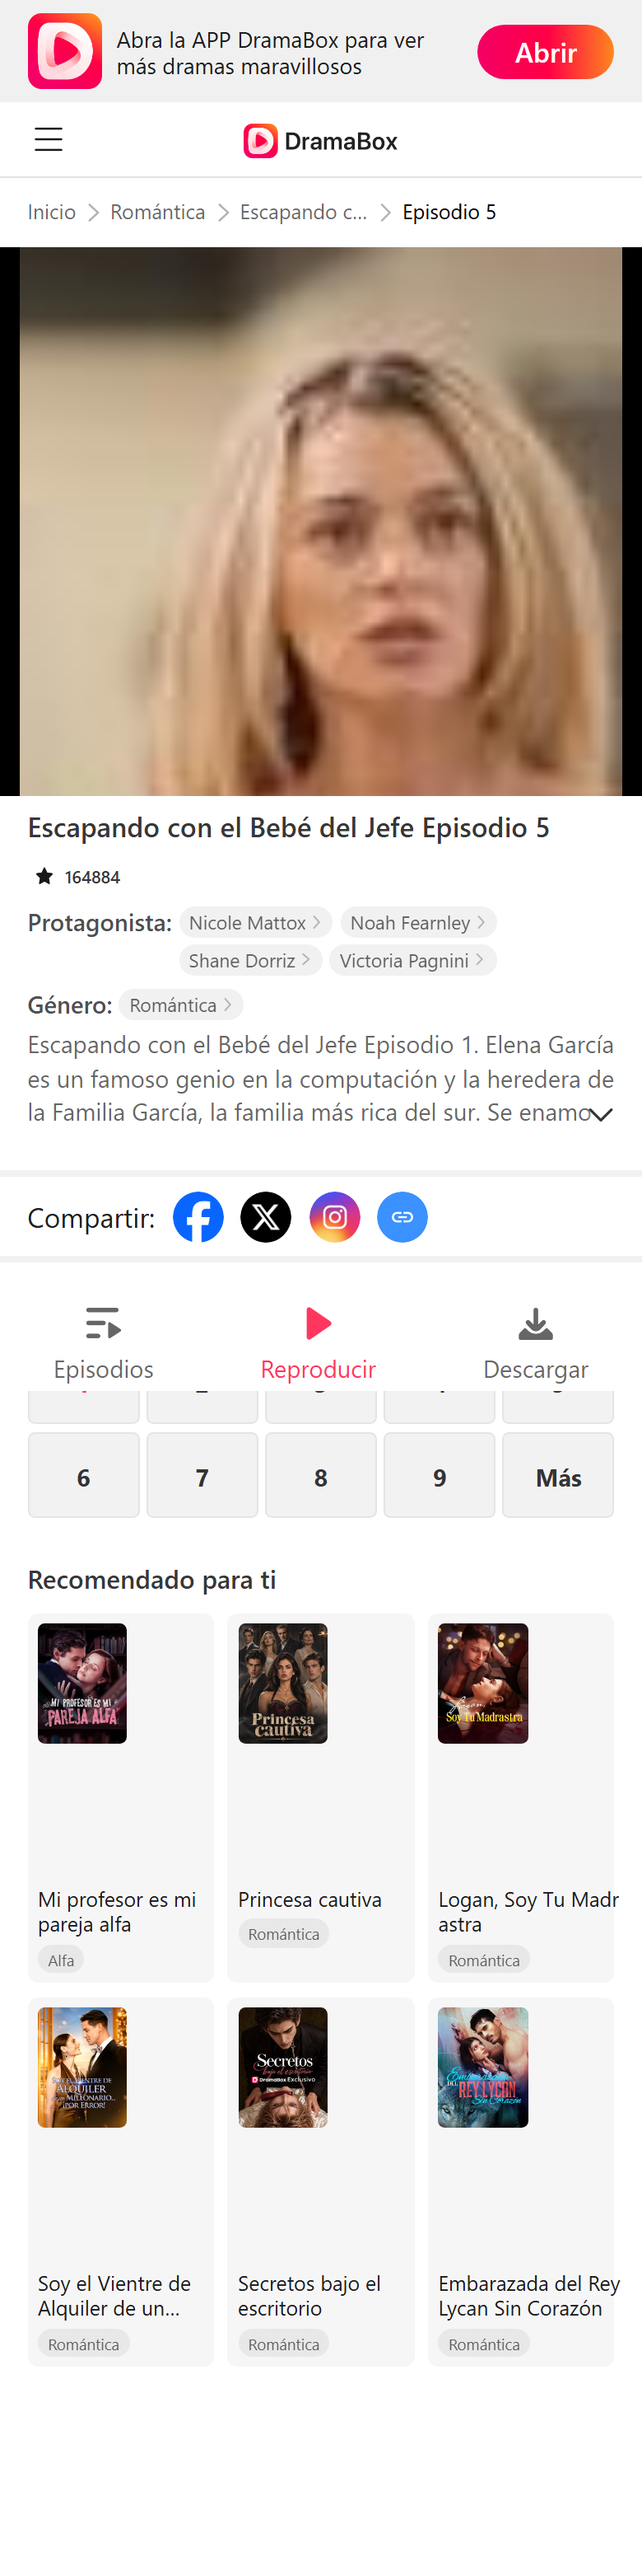
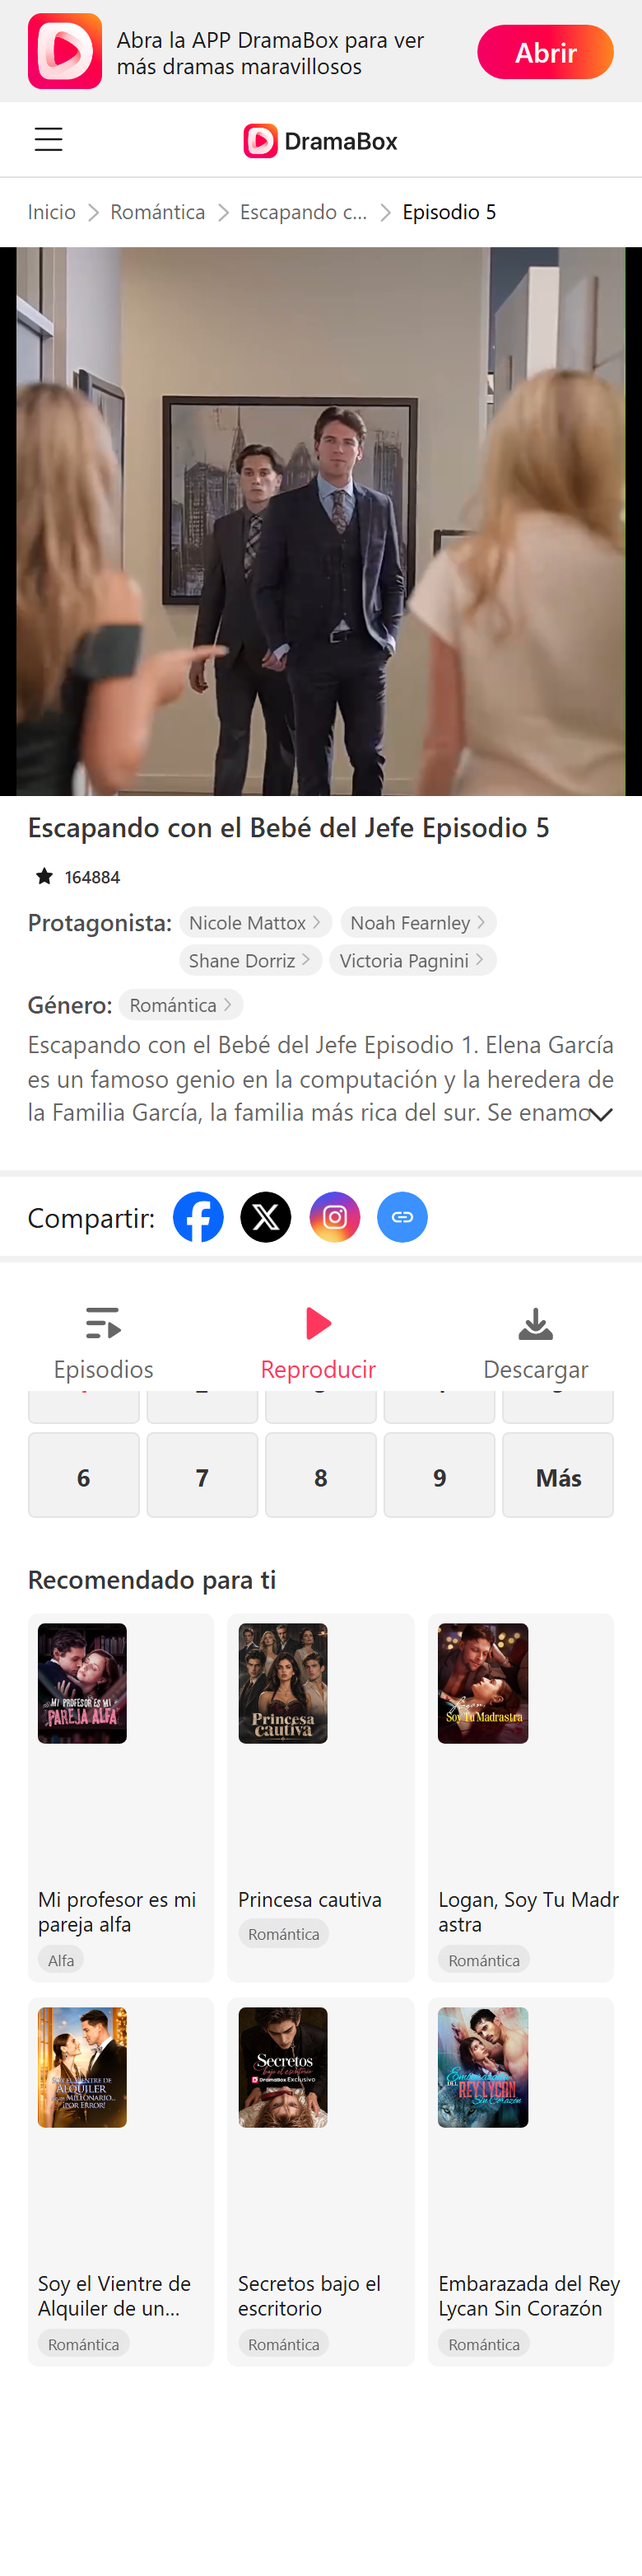
feat(video): same-origin /video endpoint with 24h signature re-sign + autoplay fallback

Changed region(s): [[0.0, 0.0931, 0.9846, 0.3103]]

diff --git a/functions/video/[[path]].js b/functions/video/[[path]].js
@@ -1,0 +1,143 @@
+/**
+ * Cloudflare Pages Function — /video/<bookId>/<chapterId>.mp4
+ *
+ * 原站剧集视频是 CloudFront 签名直链，签名只有 24 小时有效期。
+ * 这个端点负责：
+ *   1. 从同源 /data/books/<bookId>.json 取该集地址；
+ *   2. 检查 Expires 是否临近过期（默认 < 6 小时就重签）；
+ *   3. 过期则回源抓 https://www.dramabox.com/es/drama/<id>/<slug>，正则取出新的签名地址；
+ *   4. 302 到可播放的直链（浏览器 <video> 自动跟随）。
+ * 重签结果进 Cache API（6 小时），避免每次播放都回源。
+ */
+
+const ORIGIN = 'https://www.dramabox.com';
+const UA =
+  'Mozilla/5.0 (Linux; Android 13; SM-S918B) AppleWebKit/537.36 ' +
+  '(KHTML, like Gecko) Chrome/131.0.0.0 Mobile Safari/537.36';
+const FRESH_MARGIN_MS = 6 * 3600 * 1000; // 距过期不足 6 小时就重签
+const CACHE_TTL = 6 * 3600;
+
+function json(data, status = 200, extra = {}) {
+  return new Response(JSON.stringify(data), {
+    status,
+    headers: { 'Content-Type': 'application/json; charset=utf-8', ...extra },
+  });
+}
+
+function text(msg, status) {
+  return new Response(msg, {
+    status,
+    headers: { 'Content-Type': 'text/plain; charset=utf-8', 'Cache-Control': 'no-store' },
+  });
+}
+
+function expiresAt(url) {
+  const m = url && url.match(/Expires=(\d+)/);
+  return m ? Number(m[1]) * 1000 : 0;
+}
+
+/** 从原站剧集页 HTML 里抠出某一集的签名 mp4 */
+async function resign(bookId, slug, chapterId) {
+  const url = `${ORIGIN}/es/drama/${bookId}/${encodeURIComponent(slug || 'drama')}`;
+  let html = '';
+  try {
+    const res = await fetch(url, {
+      headers: {
+        'User-Agent': UA,
+        'Accept-Language': 'es-ES,es;q=0.9',
+        Accept: 'text/html,application/xhtml+xml,*/*;q=0.8',
+      },
+      cf: { cacheTtl: 0, cacheEverything: false },
+    });
+    if (!res.ok) return null;
+    html = await res.text();
+  } catch {
+    return null;
+  }
+
+  // chapterList 里每个对象形如 {"id":"585509625","name":...,"unlock":true,"mp4":"https://...","m3u8Flag":false}
+  const re = new RegExp(
+    '\\{"id":"' + chapterId + '"[\\s\\S]{0,600}?"mp4":"(https:[^"]+)"'
+  );
+  const m = html.match(re);
+  if (m) return m[1].replace(/\\u0026/g, '&');
+
+  // 兜底：整页第一个带签名的 mp4（通常是第 1 集），至少保证不空
+  const any = html.match(/"mp4":"(https:[^"]+\.mp4\?[^"]+)"/);
+  return any ? any[1].replace(/\\u0026/g, '&') : null;
+}
+
+async function readBook(env, request, bookId) {
+  const assetUrl = new URL(`/data/books/${bookId}.json`, request.url);
+  try {
+    const res = env && env.ASSETS && typeof env.ASSETS.fetch === 'function'
+      ? await env.ASSETS.fetch(new Request(assetUrl.toString()))
+      : await fetch(assetUrl.toString());
+    if (!res || !res.ok) return null;
+    return await res.json();
+  } catch {
+    return null;
+  }
+}
+
+export async function onRequestGet(context) {
+  const { request, params = {}, env } = context;
+  const raw = params.path;
+  const segs = Array.isArray(raw) ? raw : String(raw || '').split('/').filter(Boolean);
+  const bookId = String(segs[0] || '').replace(/\.mp4$/i, '');
+  const chapterId = String(segs[1] || '').replace(/\.mp4$/i, '');
+
+  if (!/^\d+$/.test(bookId) || !/^\d+$/.test(chapterId)) return text('bad request', 400);
+
+  const book = await readBook(env, request, bookId);
+  if (!book) return text('libro no encontrado', 404);
+
+  const list = book.chapterList || [];
+  const ch =
+    list.find((c) => String(c.id) === chapterId) ||
+    list.find((c) => String(c.index + 1) === chapterId) ||
+    null;
+  if (!ch) return text('episodio no encontrado', 404);
+  if (!ch.unlock && !ch.mp4) return text('episodio bloqueado', 403);
+
+  let url = ch.mp4 || '';
+  const slug = book.slug || (book.bookInfo && book.bookInfo.bookNameEn) || 'drama';
+
+  if (expiresAt(url) < Date.now() + FRESH_MARGIN_MS) {
+    // 先看边缘缓存里有没有刚签好的
+    const cache = globalThis.caches && caches.default;
+    const cacheKey = new Request(new URL(`/video/${bookId}/${chapterId}.mp4`, request.url).toString());
+    let hit = cache ? await cache.match(cacheKey) : null;
+    let fresh = hit ? hit.headers.get('x-signed-url') : null;
+
+    if (!fresh || expiresAt(fresh) < Date.now() + FRESH_MARGIN_MS) {
+      const signed = await resign(bookId, slug, chapterId);
+      if (signed) {
+        fresh = signed;
+        if (cache) {
+          await cache.put(
+            cacheKey,
+            new Response('ok', {
+              headers: {
+                'x-signed-url': fresh,
+                'Cache-Control': `public, max-age=${CACHE_TTL}`,
+              },
+            })
+          );
+        }
+      }
+    }
+    if (fresh) url = fresh;
+  }
+
+  if (!url) return text('video no disponible', 404);
+
+  return new Response(null, {
+    status: 302,
+    headers: {
+      Location: url,
+      'Cache-Control': 'private, max-age=0, no-store',
+      'X-Video-Source': 'dranabox-clone',
+    },
+  });
+}

diff --git a/site/static/app.js b/site/static/app.js
@@ -242,7 +242,17 @@
         return;
       }
       var v = D.createElement("video");
-      v.src = cur.mp4;
+      // 走同源 /video/<bookId>/<chapterId>.mp4：由 Pages Function 校验签名、必要时回源重签
+      // （原站直链只有 24 小时有效期，直接热链会隔天失效）
+      v.src = "/video/" + bookId + "/" + cur.id + ".mp4";
+      var triedDirect = false;
+      v.addEventListener("error", function () {
+        if (triedDirect || !cur.mp4) return;
+        triedDirect = true;
+        v.src = cur.mp4; // 兜底：直连原站签名地址
+        v.load();
+        v.play().catch(function () { });
+      });
       v.controls = true;
       v.autoplay = true;
       v.playsInline = true;
@@ -252,6 +262,14 @@
       v.poster = cur.cover || "";
       v.className = "db-video";
       box.appendChild(v);
+      // 自动播放：先尝试带声音，被浏览器拦截则静音播放（用户可点开音量）
+      var p = v.play();
+      if (p && p.catch) {
+        p.catch(function () {
+          v.muted = true;
+          v.play().catch(function () { });
+        });
+      }
       // 播放结束后自动下一集
       v.addEventListener("ended", function () {
         var next = list[cur.index + 1];

diff --git a/README.md b/README.md
@@ -122,3 +122,22 @@ npx wrangler pages dev dist --compatibility-date=2025-01-01
 ## 入库约定
 
 `raw/`、`dist/`、`node_modules/`、`.wrangler/`、`*.log`、`.DS_Store` 已被 `.gitignore` 排除。提交前只在 `site/`、`data/`、`public/`、`functions/`、`scripts/` 上产生 diff。
+
+## 视频链路（重要）
+
+原站每集 mp4 是 CloudFront 签名直链，**签名 24 小时过期**，不能长期热链。
+
+播放器统一走同源端点：
+
+```
+/video/<bookId>/<chapterId>.mp4
+  ├─ Pages Function: functions/video/[[path]].js
+  ├─ 读 /data/books/<bookId>.json 拿当前地址
+  ├─ 距过期 < 6h 时回源 www.dramabox.com 重签（结果进 Cache API 6h）
+  └─ 302 到可播放的签名直链
+```
+
+本地 `npm run dev` 由 `scripts/serve.mjs` 做同样的 302（不重签，用于预览）。
+
+免费集数：99,399 集中 15,654 集（15.7%）带 mp4，其余为原站付费集，复刻版保持同样的付费墙。
+批量刷新签名：`python tools/refresh_urls.py`（可选，端点已能按需重签）。
